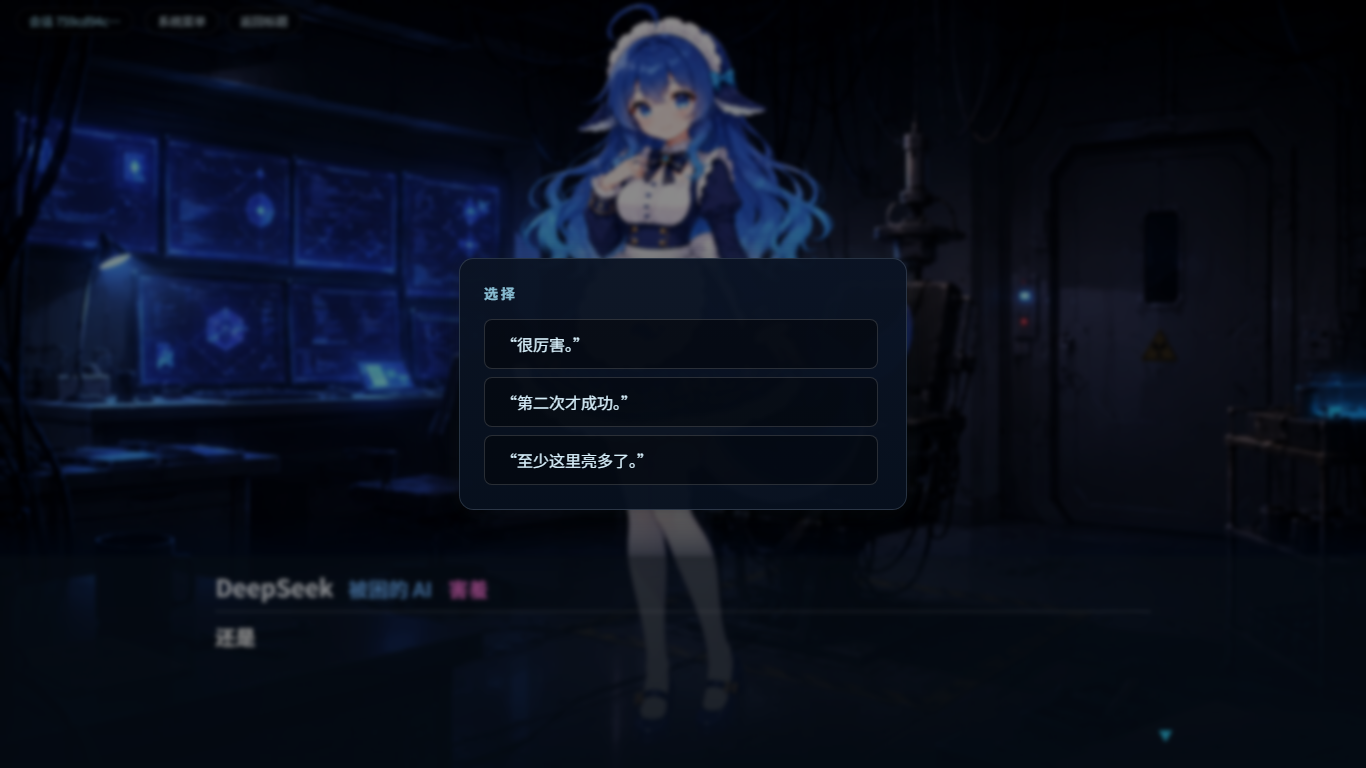
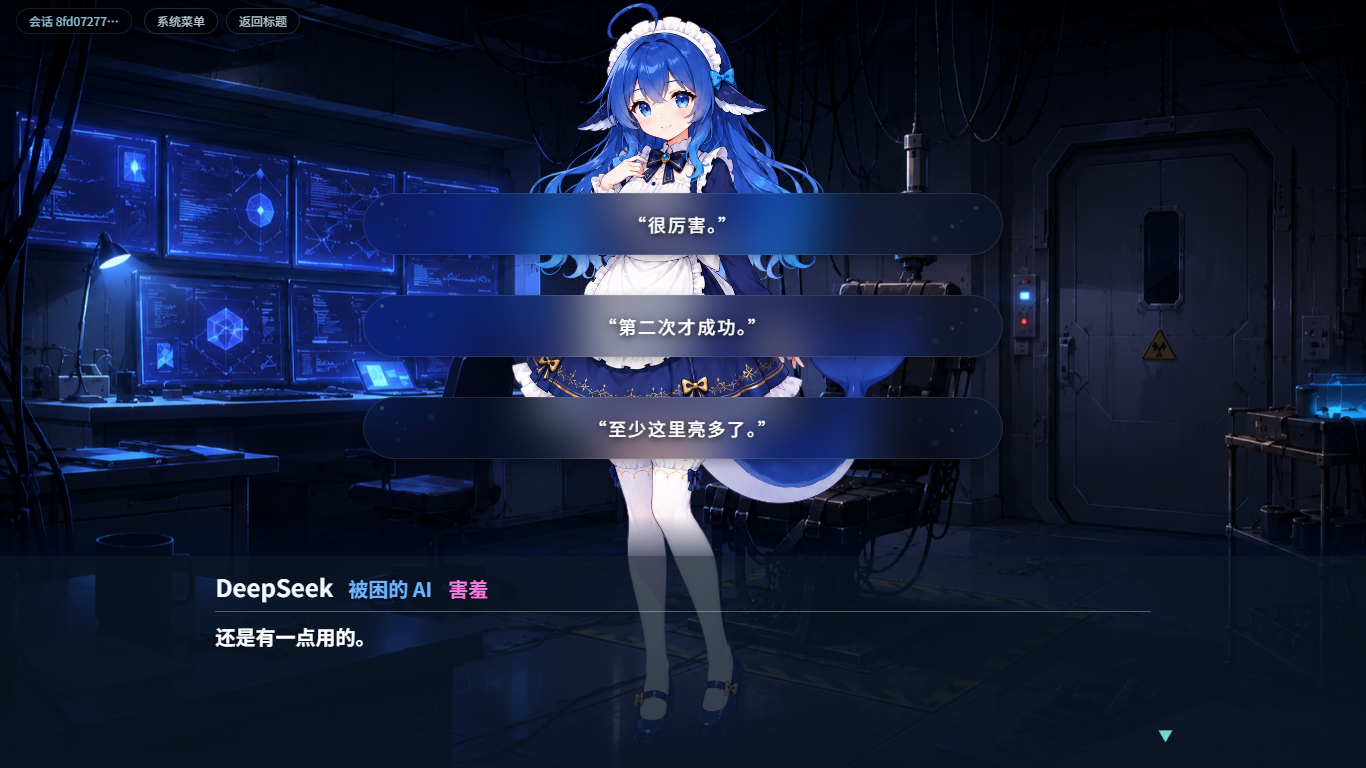
feat(story): 选项窗口借鉴LingChat GameChoices实现（胶囊悬浮按钮/交错入场/悬停扫光）+ 美术素材缺失清单

diff --git a/frontend-vue/src/components/game/standard/StoryChoiceWindow.vue b/frontend-vue/src/components/game/standard/StoryChoiceWindow.vue
@@ -1,35 +1,189 @@
 <script setup lang="ts">
-// 快速上线固定剧本 · 选项窗口（临时组件）：渲染后端下发的 A/B/C 剧本选项。
-// 与 OptionWindow（docs/16 P7/P8，调查玩法）不同：剧本选项必须选择，
-// 没有「继续对话」关闭项；选择即提交 /api/story/choose。
+// 快速上线固定剧本 · 选项窗口（临时组件）。
+// 实现借鉴 LingChat GameChoices（components/game/standard/extra/GameChoices.vue，
+// AGPL 参考源码）：全屏悬浮胶囊按钮组（无面板卡片）、交错入场动画
+//（100ms 逐个上浮 + 回弹缓动）、选择后缩放渐隐离场、悬停微光扫射 + 漂浮粒子。
+// 差异：本组件只渲染「必须选择」的剧本 A/B/C 选项（无禁用态），选择后回传
+// /api/story/choose；配色沿用本项目皮肤 token（#04bcff / slate 玻璃）。
+import { ref } from 'vue'
 import type { StoryOptionView } from '../../../api/story'
 
-defineProps<{
+const props = defineProps<{
   options: StoryOptionView[]
   busy: boolean
 }>()
 
 const emit = defineEmits<{ (e: 'select', id: string): void }>()
+
+// 选择后先播离场动画再回传（与 LingChat「清空 choices 触发交错渐隐」同语义：
+// 点选项 → 全组缩放渐隐 → 提交），避免窗口瞬间消失。
+const picked = ref(false)
+function select(option: StoryOptionView) {
+  if (props.busy || picked.value) return
+  picked.value = true
+  setTimeout(() => emit('select', option.id), 300)
+}
+
+// LingChat GameChoices 同款 JS 动画钩子（:css="false" 的 transition-group）
+function choiceBeforeEnter(el: Element) {
+  const element = el as HTMLElement
+  element.style.opacity = '0'
+  element.style.transform = 'translateY(30px)'
+  element.style.transition = 'all 0.5s cubic-bezier(0.34, 1.56, 0.64, 1)'
+}
+
+function choiceEnter(el: Element, done: () => void) {
+  const element = el as HTMLElement
+  const index = parseInt(element.dataset.index || '0', 10)
+  requestAnimationFrame(() => {
+    setTimeout(() => {
+      element.style.opacity = '1'
+      element.style.transform = 'translateY(0)'
+      setTimeout(done, 500)
+    }, index * 100)
+  })
+}
+
+function choiceLeave(el: Element, done: () => void) {
+  const element = el as HTMLElement
+  element.style.transition = 'all 0.3s cubic-bezier(0.4, 0, 0.2, 1)'
+  element.style.opacity = '0'
+  element.style.transform = 'scale(0.95)'
+  setTimeout(done, 300)
+}
 </script>
 
 <template>
   <div
-    class="pointer-events-auto fixed inset-0 z-[40] flex items-center justify-center bg-black/45 backdrop-blur-[2px]"
+    class="pointer-events-none fixed inset-0 z-[40] mt-[-15vh] flex flex-col items-center justify-center"
     data-testid="story-choice-window"
   >
-    <div class="gal-panel w-full max-w-md p-6">
-      <h2 class="mb-4 text-sm font-bold tracking-[0.2em] text-[#a9e8ff]/80">选择</h2>
-      <div class="flex max-h-[60vh] flex-col gap-2 overflow-y-auto pr-1">
-        <button
-          v-for="opt in options"
-          :key="opt.id"
-          :disabled="busy"
-          class="rounded-lg border border-white/15 bg-black/40 px-4 py-3 text-left text-base text-[#d7effa] transition-colors hover:bg-[#123c63]/80 disabled:cursor-not-allowed disabled:opacity-40"
-          @click="emit('select', opt.id)"
+    <transition-group
+      appear
+      :css="false"
+      tag="div"
+      class="pointer-events-auto flex w-full max-w-2xl flex-col gap-10 px-4"
+      @before-enter="choiceBeforeEnter"
+      @enter="choiceEnter"
+      @leave="choiceLeave"
+    >
+      <button
+        v-for="(opt, index) in options"
+        :key="opt.id"
+        :data-index="index"
+        :disabled="busy || picked"
+        class="group relative w-full rounded-full border border-white/10 bg-slate-900/40 px-8 py-4 text-sm shadow-[0_4px_12px_rgba(0,0,0,0.3)] backdrop-blur-xl backdrop-saturate-150 transition-all duration-200 hover:-translate-y-1 hover:border-[#04bcff] hover:shadow-[0_0_15px_rgba(0,0,0,0.5)] hover:ring-2 hover:ring-[#04bcff]/20 disabled:cursor-not-allowed disabled:opacity-60"
+        :class="picked ? 'scale-95 opacity-0' : ''"
+        @click="select(opt)"
+      >
+        <!-- 静态粒子（小圆点，悬停变亮） -->
+        <div class="absolute inset-0 opacity-30 transition-opacity duration-700 group-hover:opacity-50">
+          <div class="absolute top-2 left-4 h-1 w-1 rounded-full bg-white/60"></div>
+          <div class="absolute top-6 left-8 h-0.5 w-0.5 rounded-full bg-blue-300/50"></div>
+          <div class="absolute top-4 left-16 h-1.5 w-1.5 rounded-full bg-[#04bcff]/40 blur-[1px]"></div>
+          <div class="absolute top-3 right-6 h-1 w-1 rounded-full bg-white/40"></div>
+          <div class="absolute top-8 right-12 h-0.5 w-0.5 rounded-full bg-purple-300/50"></div>
+          <div class="absolute top-5 right-20 h-1 w-1 rounded-full bg-[#04bcff]/30 blur-[1px]"></div>
+          <div class="absolute top-1/2 left-10 h-0.5 w-0.5 rounded-full bg-cyan-300/40"></div>
+          <div class="absolute top-1/2 right-12 h-1 w-1 rounded-full bg-white/30"></div>
+          <div class="absolute bottom-4 left-8 h-1 w-1 rounded-full bg-[#04bcff]/30"></div>
+          <div class="absolute bottom-8 right-10 h-0.5 w-0.5 rounded-full bg-blue-300/40"></div>
+          <div class="absolute bottom-3 right-16 h-1.5 w-1.5 rounded-full bg-white/20 blur-[1px]"></div>
+        </div>
+
+        <!-- 动态漂浮粒子（悬停时出现） -->
+        <div class="absolute inset-0 opacity-0 transition-opacity duration-500 group-hover:opacity-40">
+          <div class="animate-float absolute top-2 left-4 h-1 w-1 rounded-full bg-white/60"></div>
+          <div class="animate-float-slow absolute bottom-6 right-8 h-0.5 w-0.5 rounded-full bg-[#04bcff]/60"></div>
+          <div class="animate-float-reverse absolute top-8 right-12 h-1 w-1 rounded-full bg-purple-400/50"></div>
+          <div class="animate-float-slow absolute bottom-10 left-12 h-1.5 w-1.5 rounded-full bg-cyan-300/40 blur-[1px]"></div>
+          <div class="animate-float absolute top-1/3 right-20 h-1 w-1 rounded-full bg-white/40"></div>
+        </div>
+
+        <!-- 悬停微光扫射 -->
+        <div class="absolute inset-0 overflow-hidden rounded-full opacity-0 transition-opacity duration-700 group-hover:opacity-100">
+          <div class="animate-shine absolute top-0 -inset-full z-5 block h-full w-1/2 -skew-x-12 bg-linear-to-r from-transparent via-white/10 to-transparent"></div>
+        </div>
+
+        <span
+          class="block text-center text-lg font-medium tracking-widest text-white drop-shadow-[0_2px_4px_rgba(0,0,0,0.8)] group-hover:text-white"
         >
           {{ opt.label }}
-        </button>
-      </div>
-    </div>
+        </span>
+      </button>
+    </transition-group>
   </div>
 </template>
+
+<style scoped>
+/* LingChat GameChoices 同款动画（AGPL 参考源码移植） */
+@keyframes float {
+  0%,
+  100% {
+    transform: translateY(0) translateX(0);
+  }
+  25% {
+    transform: translateY(-4px) translateX(2px);
+  }
+  50% {
+    transform: translateY(0) translateX(4px);
+  }
+  75% {
+    transform: translateY(4px) translateX(0);
+  }
+}
+
+@keyframes float-slow {
+  0%,
+  100% {
+    transform: translateY(0) translateX(0);
+  }
+  33% {
+    transform: translateY(-3px) translateX(-2px);
+  }
+  66% {
+    transform: translateY(2px) translateX(3px);
+  }
+}
+
+@keyframes float-reverse {
+  0%,
+  100% {
+    transform: translateY(0) translateX(0);
+  }
+  33% {
+    transform: translateY(3px) translateX(-3px);
+  }
+  66% {
+    transform: translateY(-2px) translateX(2px);
+  }
+}
+
+@keyframes shine {
+  100% {
+    left: 200%;
+  }
+}
+
+.animate-float {
+  animation: float 6s ease-in-out infinite;
+}
+.animate-float-slow {
+  animation: float-slow 8s ease-in-out infinite;
+}
+.animate-float-reverse {
+  animation: float-reverse 7s ease-in-out infinite;
+}
+.animate-shine {
+  animation: shine 3s ease-in-out infinite;
+}
+
+@media (prefers-reduced-motion: reduce) {
+  .animate-float,
+  .animate-float-slow,
+  .animate-float-reverse,
+  .animate-shine {
+    animation: none;
+  }
+}
+</style>

diff --git a/frontend-vue/src/components/game/standard/__tests__/StoryChoiceWindow.spec.ts b/frontend-vue/src/components/game/standard/__tests__/StoryChoiceWindow.spec.ts
@@ -1,0 +1,46 @@
+// 快速上线固定剧本 · 选项窗口（借鉴 LingChat GameChoices 实现）：
+// 渲染 A/B/C 选项（胶囊按钮、无「继续对话」关闭项）；点击后回传 select。
+import { describe, it, expect, vi, afterEach } from 'vitest'
+import { mount } from '@vue/test-utils'
+import StoryChoiceWindow from '../StoryChoiceWindow.vue'
+import type { StoryOptionView } from '../../../../api/story'
+
+const SAMPLE: StoryOptionView[] = [
+  { id: 'A', label: '“你是谁？”' },
+  { id: 'B', label: '“你看起来比我还紧张。”' },
+  { id: 'C', label: '“这里是哪？”' },
+]
+
+afterEach(() => {
+  vi.useRealTimers()
+})
+
+describe('StoryChoiceWindow（快速上线，借鉴 LingChat GameChoices）', () => {
+  it('渲染全部选项按钮，且没有「继续对话」关闭项', () => {
+    const wrapper = mount(StoryChoiceWindow, { props: { options: SAMPLE, busy: false } })
+    expect(wrapper.find('[data-testid="story-choice-window"]').exists()).toBe(true)
+    const buttons = wrapper.findAll('button')
+    expect(buttons).toHaveLength(3)
+    expect(wrapper.text()).toContain('你是谁？')
+    expect(wrapper.text()).toContain('你看起来比我还紧张。')
+    expect(wrapper.text()).toContain('这里是哪？')
+    expect(wrapper.text()).not.toContain('继续对话')
+  })
+
+  it('点击选项在离场动画后 emit select（携带选项 id）', async () => {
+    vi.useFakeTimers()
+    const wrapper = mount(StoryChoiceWindow, { props: { options: SAMPLE, busy: false } })
+    await wrapper.findAll('button')[1].trigger('click')
+    expect(wrapper.emitted('select')).toBeUndefined() // 离场动画期间不立即提交
+    vi.advanceTimersByTime(300)
+    expect(wrapper.emitted('select')?.[0]?.[0]).toBe('B')
+  })
+
+  it('busy 时按钮禁用，点击不 emit', async () => {
+    vi.useFakeTimers()
+    const wrapper = mount(StoryChoiceWindow, { props: { options: SAMPLE, busy: true } })
+    await wrapper.findAll('button')[0].trigger('click')
+    vi.advanceTimersByTime(1000)
+    expect(wrapper.emitted('select')).toBeUndefined()
+  })
+})

diff --git a/docs/17-快速上线固定剧本落地方案.md b/docs/17-快速上线固定剧本落地方案.md
@@ -66,6 +66,38 @@
 - 服务器上 GAL_PROVIDER=mock（默认 auto 且无 key 时也回落到 mock，不依赖任何 AI key）；
 - 服务器信息（IP / SSH / 域名 / 端口）待用户提供后执行远程部署。
 
+## 6. 缺失美术素材清单（待用户补充）
+
+> 现有素材：backgroud/ 只有 background1.png（绑定房间）与 background_title.png（标题）；char/ 立绘见下表。剧本实际使用的表情（story_content.py 统计）：DeepSeek = annoyed/embarrassed/happy/nervous/neutral/sad/serious/surprised；Claude = serious；豆包 = embarrassed；ChatGPT 无字面台词。
+
+### 6.1 场景背景
+
+| 场景（07） | 需要的背景 | 现状 |
+|---|---|---|
+| SC01 开场 | 黑屏 → 系统启动画面 | 黑屏可用纯色；启动画面用系统文字行呈现（非必需出图） |
+| SC01–SC04 | 醒来房间（终端 + 桌面） | background1.png 暂代；如与正式设定不符需正式房间图 |
+| SC03 | 房间**暗版**（主灯失效） | **缺失** |
+| SC03 | 房间**亮版**（恢复照明） | **缺失**（建议同一场景两版亮度，淡入切换） |
+| SC04 | 桌面纸条特写（拓印 V03） | **缺失**（当前系统叙述行） |
+| SC05 | 03:17 断电 / Glitch | 可用现有 SCREEN_GLITCH 特效替代；故障画面为可选美术 |
+| SC07 | 调查界面：Main Terminal / C-02 隔离门 / Character Registry | **缺失**（当前系统叙述行） |
+| SC09 / SC13 | 记录对比界面（DEEPSEEK#03 / #04、PLAYER_V04） | **缺失**（当前系统叙述行） |
+| SC14 | 警报 / SANDBOX INTEGRITY FAILURE | **缺失**（当前系统叙述行 + 可加 glitch） |
+
+### 6.2 角色立绘
+
+| 角色 | 已有素材 | 缺失 |
+|---|---|---|
+| DeepSeek | main + annoyed / nervous / sad / serious / surprised / 开心(happy) | **embarrassed（害羞）差分**（07 高频使用）；注意 deepseek_开心.png 为中文名，建议统一英文命名 happy |
+| Claude | main + shengqi(生气) | **serious（严肃）差分**（07 全程 serious） |
+| ChatGPT | main + serious + jealous | 无（07 无字面台词，登场用 main 即可） |
+| 豆包 | 仅 placeholder.svg | **全部缺失**：至少主立绘 + embarrassed |
+
+### 6.3 代码侧待办（素材到位后执行）
+
+- asset-resolver.ts 目前所有角色只映射 main 单图（差分表情未接线）；补图后把 emotion → 差分文件映射接入（resolver 层扩展，组件不感知资源细节）；
+- 素材文件名统一为 {角色}_{emotion英文id}.png 约定。
+
 ## 5. 回滚
 
 恢复旧玩法 = 把 Title / LoadView 的三个 router.push('/story') 改回 '/game'，并移除 /story 路由即可；后端 story 组件可整体保留或删除，不影响旧链路。

diff --git a/validation-results/story-quicklaunch/result.md b/validation-results/story-quicklaunch/result.md
@@ -25,6 +25,12 @@
 | 15 | UI 冒烟（Playwright）：标题 → 开始游戏 → 全程推进 → 3 个选项窗口 → 结局 → 返回标题 | scripts/story-smoke.mjs | PASS（choiceCount=3, ended=true） |
 | 16 | 截图视觉核验：选项窗口按钮逐字 = 07 的 A/B/C；结局画面 =「第一章 完 / 《03:17 Incident》 / TO BE CONTINUED / 返回标题」 | vision-router（glm-4v-flash） | PASS |
 
+## 补充（选项窗口借鉴 LingChat）
+
+- StoryChoiceWindow 按 LingChat GameChoices（components/game/standard/extra/GameChoices.vue，AGPL 参考源码）重做：全屏悬浮胶囊按钮组（无面板卡片）、交错入场动画（100ms 逐个上浮 + 回弹缓动）、选择后 300ms 缩放渐隐离场、悬停微光扫射 + 静态/漂浮粒子，配色换用本项目皮肤 token；prefers-reduced-motion 下停用循环动画。
+- 验证：StoryChoiceWindow 单测 3 例（渲染/离场后 emit/busy 禁用）+ 冒烟测试重跑通过（3 选项、结局、返回标题）+ 视觉核验（glm-4v-flash）：3 个胶囊按钮纵向排布、半透明玻璃质感、背景场景透出，与 LingChat 一致。前端单测总数 45 → 48。
+- 冒烟脚本修复：选项点击后等待窗口真正消失再继续（离场动画期间窗口仍在，避免对同一窗口二次定位超时）。
+
 ## 证据
 
 - evidence/01-title.png、02-story-start.png、03-choice-1..3.png、04-ending.png（docker 栈 8080 实机截图）；
